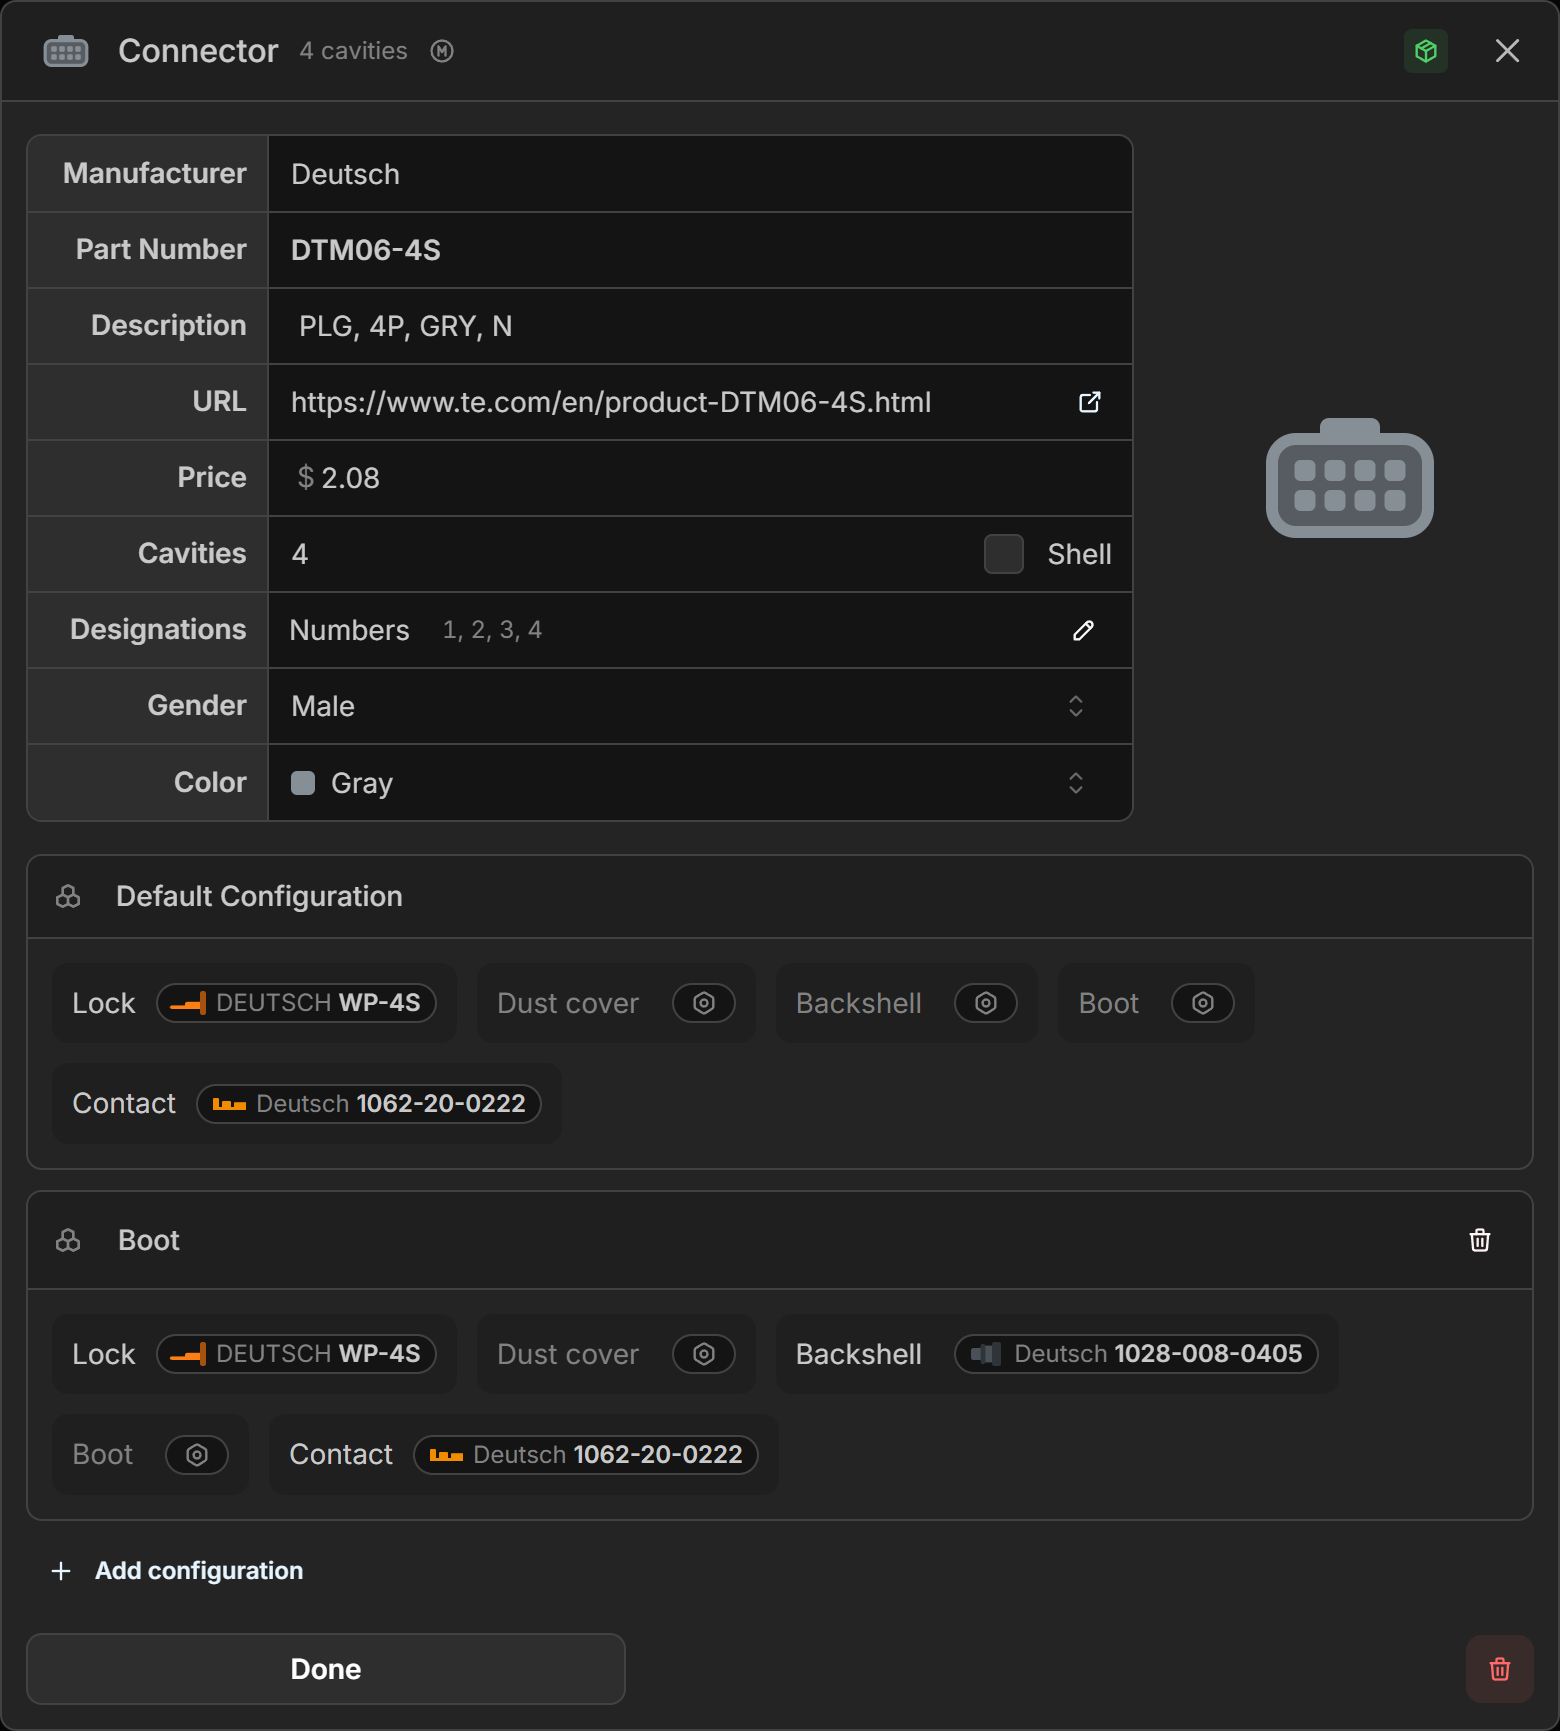
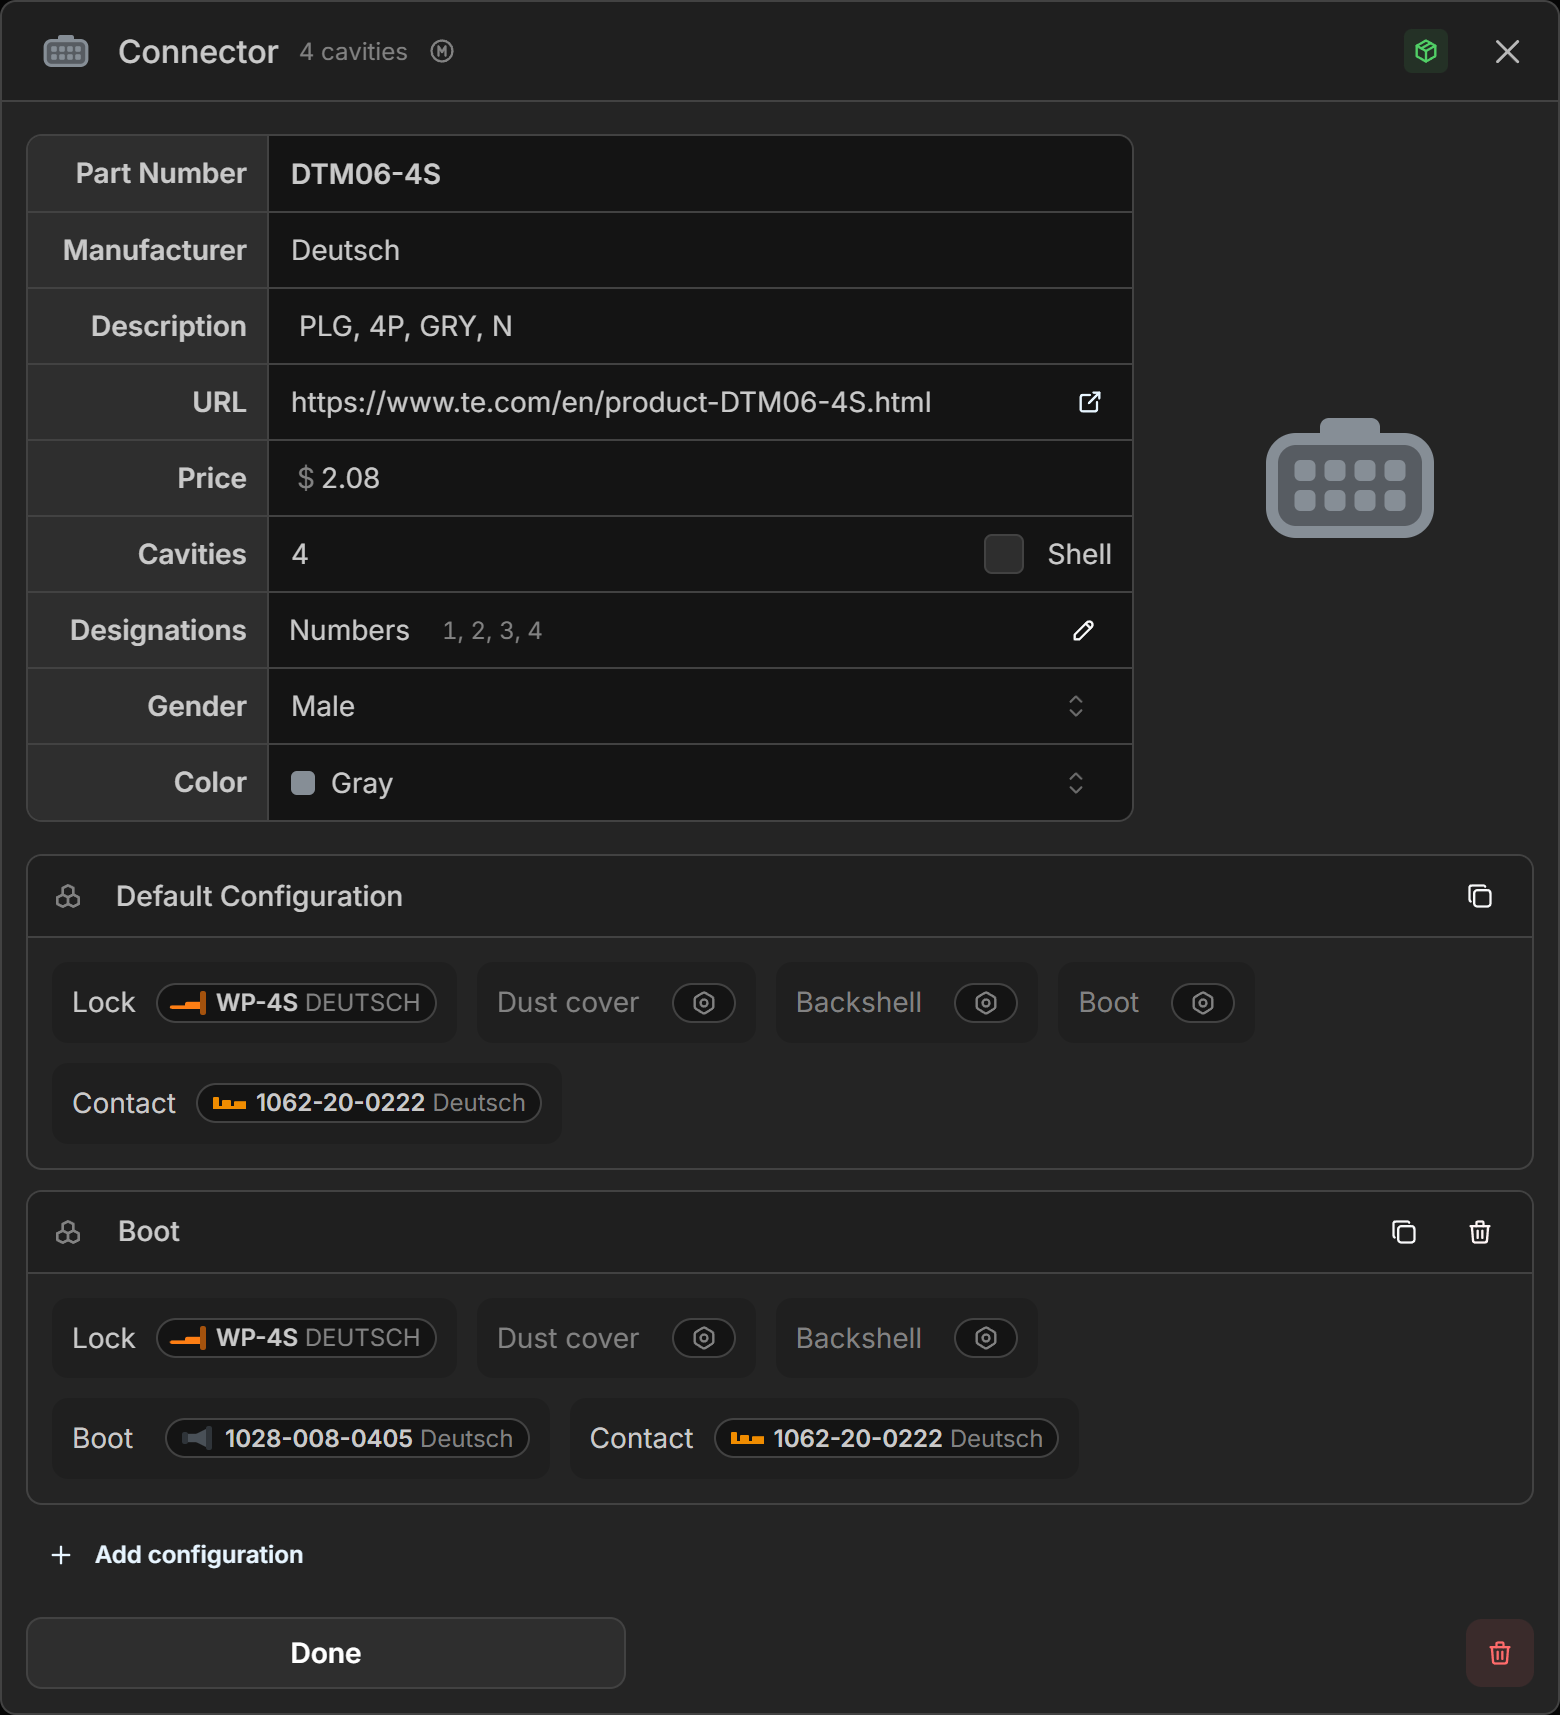
Update 2026.27.05

diff --git a/content/part/_meta.tsx b/content/part/_meta.tsx
@@ -6,11 +6,19 @@ const IconWire = () => (
 );
 
 const IconConnector = () => (
-  <svg width={20} height={20} viewBox="0 0 60 40" xmlns="http://www.w3.org/2000/svg" style={{ display: "inline", verticalAlign: "middle", marginRight: "0.4em" }}>
+  <svg width={20} height={20} viewBox="0 0 80 40" xmlns="http://www.w3.org/2000/svg" style={{ display: "inline", verticalAlign: "middle", marginRight: "0.4em" }}>
     <g transform="translate(12, 0)">
-      <rect x="28" y="4" width="8" height="32" rx="1" fill="#696969" />
-      <rect x="0" y="0" width="28" height="40" rx="16" ry="16" fill="#B8B8B8" />
-      <rect x="14" y="0" width="16" height="40" fill="#B8B8B8" />
+      <rect x="18" y="0" width="20" height="30" rx="3" fill="#868E96" />
+      <rect x="0" y="5" width="56" height="35" rx="10" fill="#868E96" />
+      <rect x="4" y="9" width="48" height="27" rx="6" fill="#575C62" />
+      <rect x="9.5" y="14" width="7" height="7" rx="2" fill="#868E96" />
+      <rect x="19.5" y="14" width="7" height="7" rx="2" fill="#868E96" />
+      <rect x="29.5" y="14" width="7" height="7" rx="2" fill="#868E96" />
+      <rect x="39.5" y="14" width="7" height="7" rx="2" fill="#868E96" />
+      <rect x="9.5" y="24" width="7" height="7" rx="2" fill="#868E96" />
+      <rect x="19.5" y="24" width="7" height="7" rx="2" fill="#868E96" />
+      <rect x="29.5" y="24" width="7" height="7" rx="2" fill="#868E96" />
+      <rect x="39.5" y="24" width="7" height="7" rx="2" fill="#868E96" />
     </g>
   </svg>
 );

diff --git a/content/updates/_meta.tsx b/content/updates/_meta.tsx
@@ -1,4 +1,5 @@
 export default {
+  "2026.05.27": "May 27, 2026",
   "2026.05.26": "May 26, 2026",
   "2026.05.12": "May 12, 2026",
   "2026.04.28": "April 28, 2026",